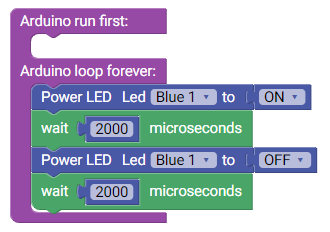
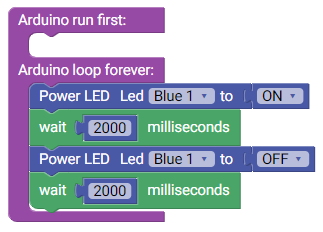
Fixed microsecond issue
All XML files, instructions texts, images, are fixed so they now use milliseconds instead of microseconds. All XML files have also been tested with the Arduino

Changed region(s): [[0.0, 0.0302, 0.9907, 0.9655]]

diff --git a/ardublockly/wam6.html b/ardublockly/wam6.html
@@ -209,7 +209,7 @@
 
               <div id="step2" style="display:none">
                 <b>With these new blocks, try to make this:</b><br>
-                <i>When the program runs, it turns a LED ON for 1 second and then OFF for 1 second. It repeats this 'x' times, where 'x' equals 5.</i><br><br>
+                <i>When the program runs, it turns a LED ON for 1 second and then OFF for 1 second. It repeats this 'x' times, where 'x' equals 5. Afterwards it waits for 5 seconds.</i><br><br>
                 Don't be afraid to play around with the numbers: <br>change how long the light is on or how often it repeats!<br><br>
                 <i>Go to the next step, or check the example</i><br>
                 <button id="myBtn" onclick="openModal('answerModal1')">Show the answer</button><br><br>
@@ -243,9 +243,9 @@
               <div id="step4" style="display:none">
                 Now we're gonna work on the next step, where the goal is:<br>
                 <b>Turning on the LED and turning it off for 3 seconds when the button is pressed or when a random timelimit is reached.</b><br><br>
-                Let's start by setting a variable called 'loops' to a random number between 30 000 and 32 000. This number will be the amount of times the loop will be repeated.<br><br>
-                The <i>repeat [...] times</i> loop will be used to measure the time. The program will check every <b>50 microseconds</b> whether the button is pressed or not.<br><br>
-                The loop will end when the time (the amount of 'loops' multiplied by 50 microseconds) is over, or when it notices the button is pressed.<br><br>
+                Let's start by setting a variable called 'loops' to a random number between 2000 and 2200. This number will be the amount of times the loop will be repeated.<br><br>
+                The <i>repeat [...] times</i> loop will be used to measure the time. The program will check every <b>5 milliseconds</b> whether the button is pressed or not.<br><br>
+                The loop will end when the time (the amount of 'loops' multiplied by 5 milliseconds) is over, or when it notices the button is pressed.<br><br>
                 When the loop ends one way or another, the LED will turn off for 3 seconds and everything starts again.<br><br>
                 <i>If you're all done, you can check the answer using the left button and move on to lesson 7 by pressing the right button:</i><br>
                 <button id="myBtn" onclick="openModal('answerModal2')">Show the answer</button>

diff --git a/ardublockly/wam4.html b/ardublockly/wam4.html
@@ -207,7 +207,7 @@
 
               <div id="step2" style="display:none"> 
                 <b>Step 1</b><br>
-                Try to turn on the LED then let it wait for a time interval of 2000 microseconds to turn it off. <br>
+                Try to turn on the LED then let it wait for a time interval of 2000 milliseconds to turn it off. <br>
                 For this you can use the ‘wait’ block.<br>
                 Then the program will wait and then perform the next action. <br>
                 <img src="img\WAIT-BLOCK.png" alt="Wait block"><br><br>
@@ -220,10 +220,10 @@
               <div id="step3" style="display:none">
                 <b>Question</b><br>
                 Question:
-                What would happen if you change the number of microseconds?<br><br>
+                What would happen if you change the number of milliseconds?<br><br>
                 <details>
                   <summary><i>For a hint, click here!:</i></summary>
-                  <p>It would wait for that number of microseconds. 1000 microseconds equals 1 second so 2000 microseconds equals 2 seconds</p>
+                  <p>It would wait for that number of milliseconds. 1000 milliseconds equals 1 second so 2000 milliseconds equals 2 seconds</p>
                 </details><br>
                 <i>Go to the next step to finish this lesson!</i><br>
                 <button id="prev" onclick="changeStep(3, 'prev')">previous</button>

diff --git a/ardublockly/wam7.html b/ardublockly/wam7.html
@@ -301,7 +301,7 @@
                 Like in the previous lesson we now want the function to wait a few seconds before performing the loop again.<br><br>
                 Add the wait function in your loop.<br>
                 Now your loop is done, if no buttons are pressed, the LED is still on!<br><br>
-                Therefore we let the function wait for 5000 microseconds again to then turn all the LEDs off so no LED will stay on.<br>
+                Therefore we let the function wait for 7000 milliseconds again to then turn all the LEDs off so no LED will stay on.<br>
                 For this we make a function to switch off all our LEDs at once in a separate code block.<br><br>
                 Proceed to step 9 to create this function.<br><br>
                 <img src="img\clock.png" alt= "clock" width="300"><br><br>

diff --git a/blockly/Toolboxes/Lesson 4.js b/blockly/Toolboxes/Lesson 4.js
@@ -61,8 +61,8 @@
 '  </category>' +
 '   <sep></sep>' +
 '  <category id="catLesson 4" name="Lesson 4">' +
-'    <block type="time_delaymicros">' +
-'      <value name="DELAY_TIME_MICRO">' +
+'    <block type="time_delay">' +
+'      <value name="TIME_DELAY">' +
 '        <block type="math_number">' +
 '          <field name="NUM">2000</field>' +
 '        </block>' +

diff --git a/blockly/Toolboxes/Lesson 5.js b/blockly/Toolboxes/Lesson 5.js
@@ -61,8 +61,8 @@
 '  </category>' +
 '   <sep></sep>' +
 '  <category id="catLesson 4" name="Lesson 4">' +
-'    <block type="time_delaymicros">' +
-'      <value name="DELAY_TIME_MICRO">' +
+'    <block type="time_delay">' +
+'      <value name="TIME_DELAY">' +
 '        <block type="math_number">' +
 '          <field name="NUM">2000</field>' +
 '        </block>' +

diff --git a/blockly/Toolboxes/Lesson 6.js b/blockly/Toolboxes/Lesson 6.js
@@ -61,8 +61,8 @@
 '  </category>' +
 '   <sep></sep>' +
 '  <category id="catLesson 4" name="Lesson 4">' +
-'    <block type="time_delaymicros">' +
-'      <value name="DELAY_TIME_MICRO">' +
+'    <block type="time_delay">' +
+'      <value name="TIME_DELAY">' +
 '        <block type="math_number">' +
 '          <field name="NUM">2000</field>' +
 '        </block>' +

diff --git a/blockly/Toolboxes/Lesson 7.js b/blockly/Toolboxes/Lesson 7.js
@@ -61,8 +61,8 @@
 '  </category>' +
 '   <sep></sep>' +
 '  <category id="catLesson 4" name="Lesson 4">' +
-'    <block type="time_delaymicros">' +
-'      <value name="DELAY_TIME_MICRO">' +
+'    <block type="time_delay">' +
+'      <value name="TIME_DELAY">' +
 '        <block type="math_number">' +
 '          <field name="NUM">2000</field>' +
 '        </block>' +

diff --git a/blockly/Toolboxes/Lesson 8.js b/blockly/Toolboxes/Lesson 8.js
@@ -61,8 +61,8 @@
 '  </category>' +
 '   <sep></sep>' +
 '  <category id="catLesson 4" name="Lesson 4">' +
-'    <block type="time_delaymicros">' +
-'      <value name="DELAY_TIME_MICRO">' +
+'    <block type="time_delay">' +
+'      <value name="TIME_DELAY">' +
 '        <block type="math_number">' +
 '          <field name="NUM">2000</field>' +
 '        </block>' +
